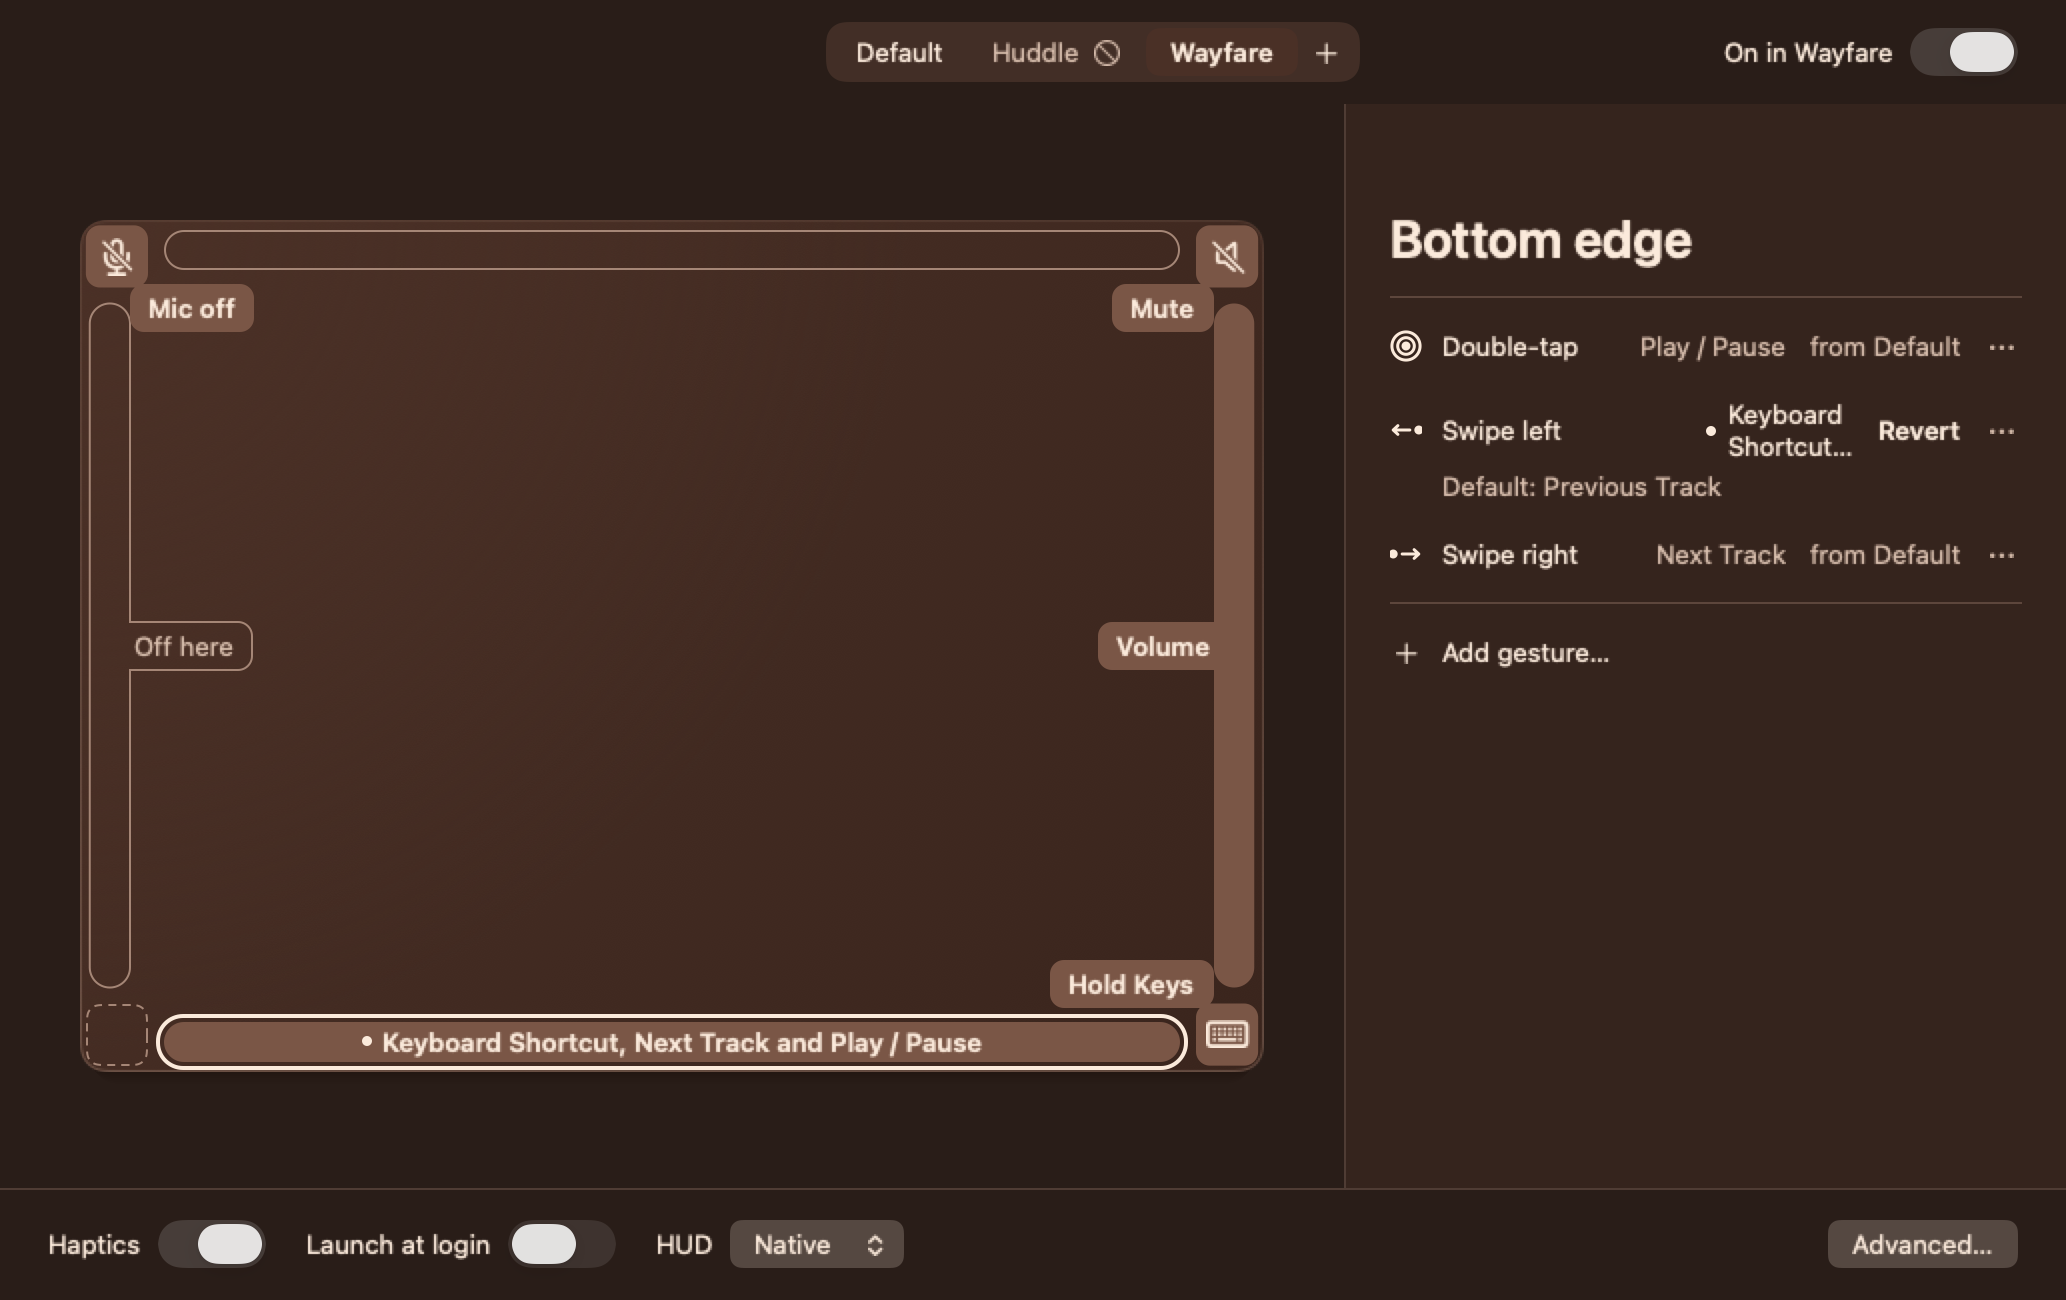
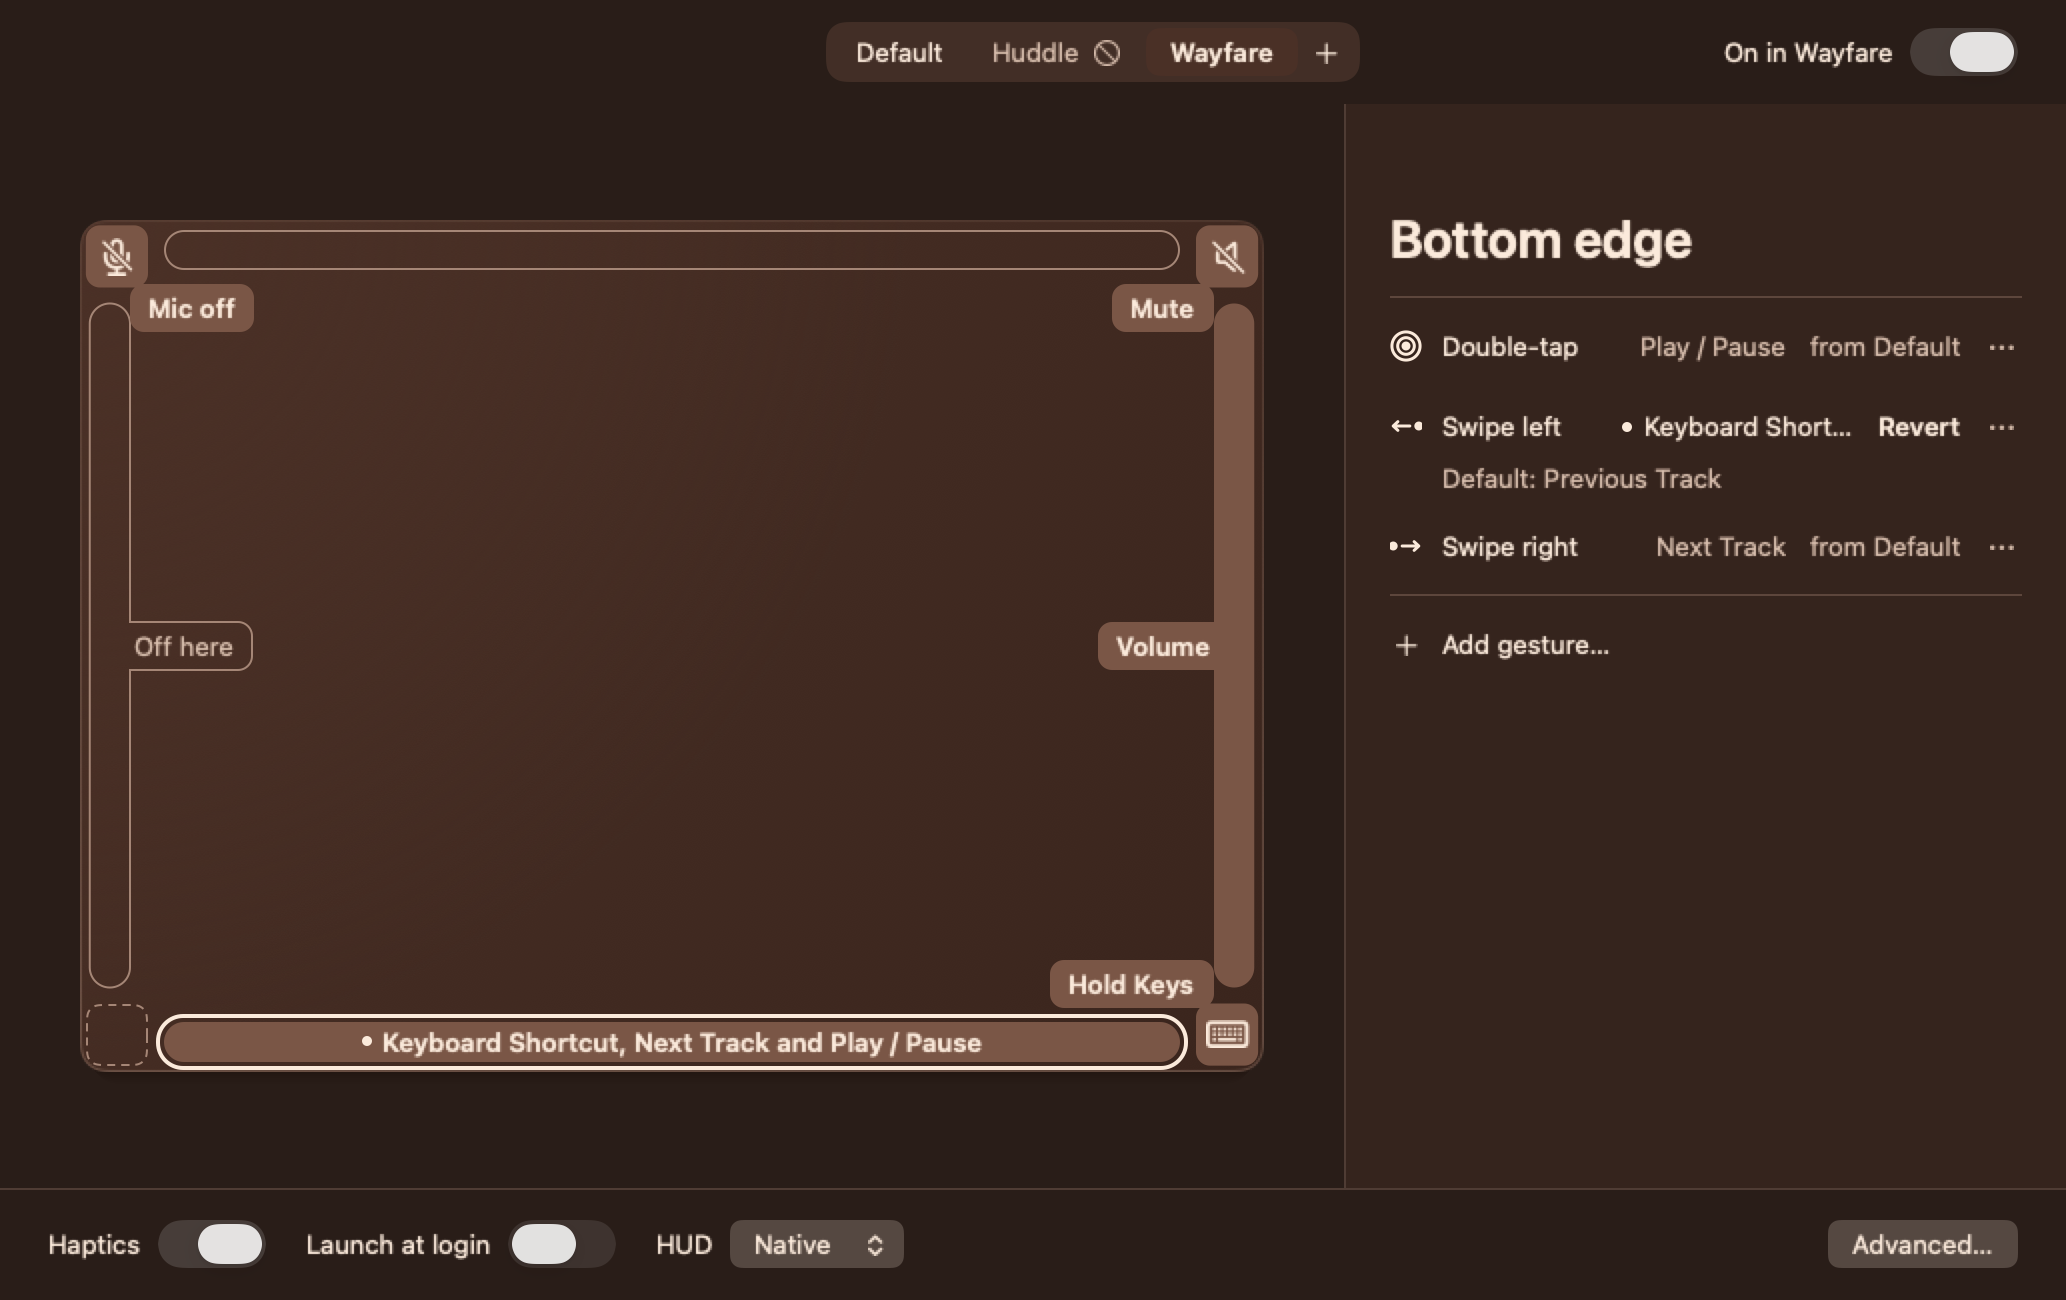
batch 21 follow-up: inspector rows stay on one line, popover unavailable shot reports a pad, visual pass in done report

Changed region(s): [[0.6815, 0.3077, 0.9603, 0.4615], [0.6815, 0.4923, 0.7744, 0.5231]]

diff --git a/Sources/EdgyUI/Inspector/InspectorView.swift b/Sources/EdgyUI/Inspector/InspectorView.swift
@@ -170,10 +170,12 @@ struct BindingRowView: View {
     VStack(alignment: .leading, spacing: 4) {
       HStack(spacing: 10) {
         GestureIcon(gesture: row.gesture)
-        Text(GestureNaming.name(row.gesture)).foregroundStyle(Tokens.ink)
+        Text(GestureNaming.name(row.gesture)).foregroundStyle(Tokens.ink).lineLimit(1).fixedSize()
         Spacer(minLength: 8)
         // While the picker is open the value is blank: its header already says it (bone 6).
-        if !isPicking { value }
+        // One line: the gesture name stays whole; a long action name shortens (the inspector's
+        // "…" for a cut is the system's; the pad never uses one).
+        if !isPicking { value.lineLimit(1) }
         RowMenu(model: model, row: row)
       }
       .font(Tokens.font(Tokens.typeBody))

diff --git a/Tests/EdgyUITests/Window/Batch21SnapshotTests.swift b/Tests/EdgyUITests/Window/Batch21SnapshotTests.swift
@@ -196,7 +196,11 @@ struct Batch21SnapshotTests {
     var config = PreviewFixtures.demoConfig
     config.defaultProfile.bindings.append(
       Binding(zone: .corner(.bottomLeft), gesture: .doubleTap, action: "keyboard.backlightToggle"))
-    try popover("popover-unavailable-unmapped", model: InspectorFixtures.model(config: config))
+    let model = InspectorFixtures.model(config: config)
+    model.simulate(
+      EngineStatus(
+        running: true, paused: false, pausedUntil: nil, enabled: true, devices: [PreviewFixtures.externalPad]))
+    try popover("popover-unavailable-unmapped", model: model)
   }
 
   @Test func popoverPausedPlusTestMode() throws {

diff --git a/.parallel-plans/done-batch-21.md b/.parallel-plans/done-batch-21.md
@@ -170,6 +170,24 @@ Shots: `docs/design/build-shots/batch-21/` (new, integrated), plus re-shot `batc
   - Broken config is the one-line strip with two buttons, and the window is read-only.
 - **Long labels** (`inspector-long-labels`): Switch Apps' labels each take their own line above the control. There are no mid-word breaks, and every slider track ends at the same x.
 
+## Visual pass (each shot opened and checked in the transcript)
+- Opened and checked:
+  - B21 `window-default` (dark), `window-picker-bottom` (light, the batch-14 copy), `inspector-long-labels`
+  - `tab-wayfare` (light and dark), `state-paused` (dark), `tab-huddle-off`
+  - `state-no-trackpad`, `issue-broken-config`
+  - `popover-unavailable-unmapped`, `popover-no-access-broken-config` (dark)
+- The pass found and fixed two problems (follow-up commit after the first merge):
+  - **`popover-unavailable-unmapped` showed "No trackpad connected"**: the fixture model never reported a pad, so the case wasn't shown. It now does, and the bottom-left corner draws as a dashed, unmapped tile.
+  - **On Wayfare, the overridden row's "Keyboard Shortcut…" wrapped to two lines.** Rows are now one line: the gesture name stays whole and a long action name shortens.
+- Confirmed by eye:
+  - The slab's soft edge is below the slab, with no lighter ring in dark.
+  - Corner tabs hang flush under their tiles; "Off here" is a hairline tab joined to its strip.
+  - The selection ring and the live border trace the joined tab.
+  - Paused and Huddle-off keep the mirror at 40% with the centred line and no plate.
+  - No trackpad is dashed with the exact copy.
+  - The broken-config strip has two buttons, and the split, "+", HUD, Advanced… and Add gesture… are disabled. The headless shots draw switches the same whether disabled or not; check the switches on the device.
+  - The popover block keeps Enabled and Test Mode under it, and the list is Pause / Settings… / About / Quit.
+
 ## Diff summary
 - **Mirror:**
   - `MirrorPad.swift`: union tabs, ring, manual shadow, fitting, touch filter, corner radius cap.
